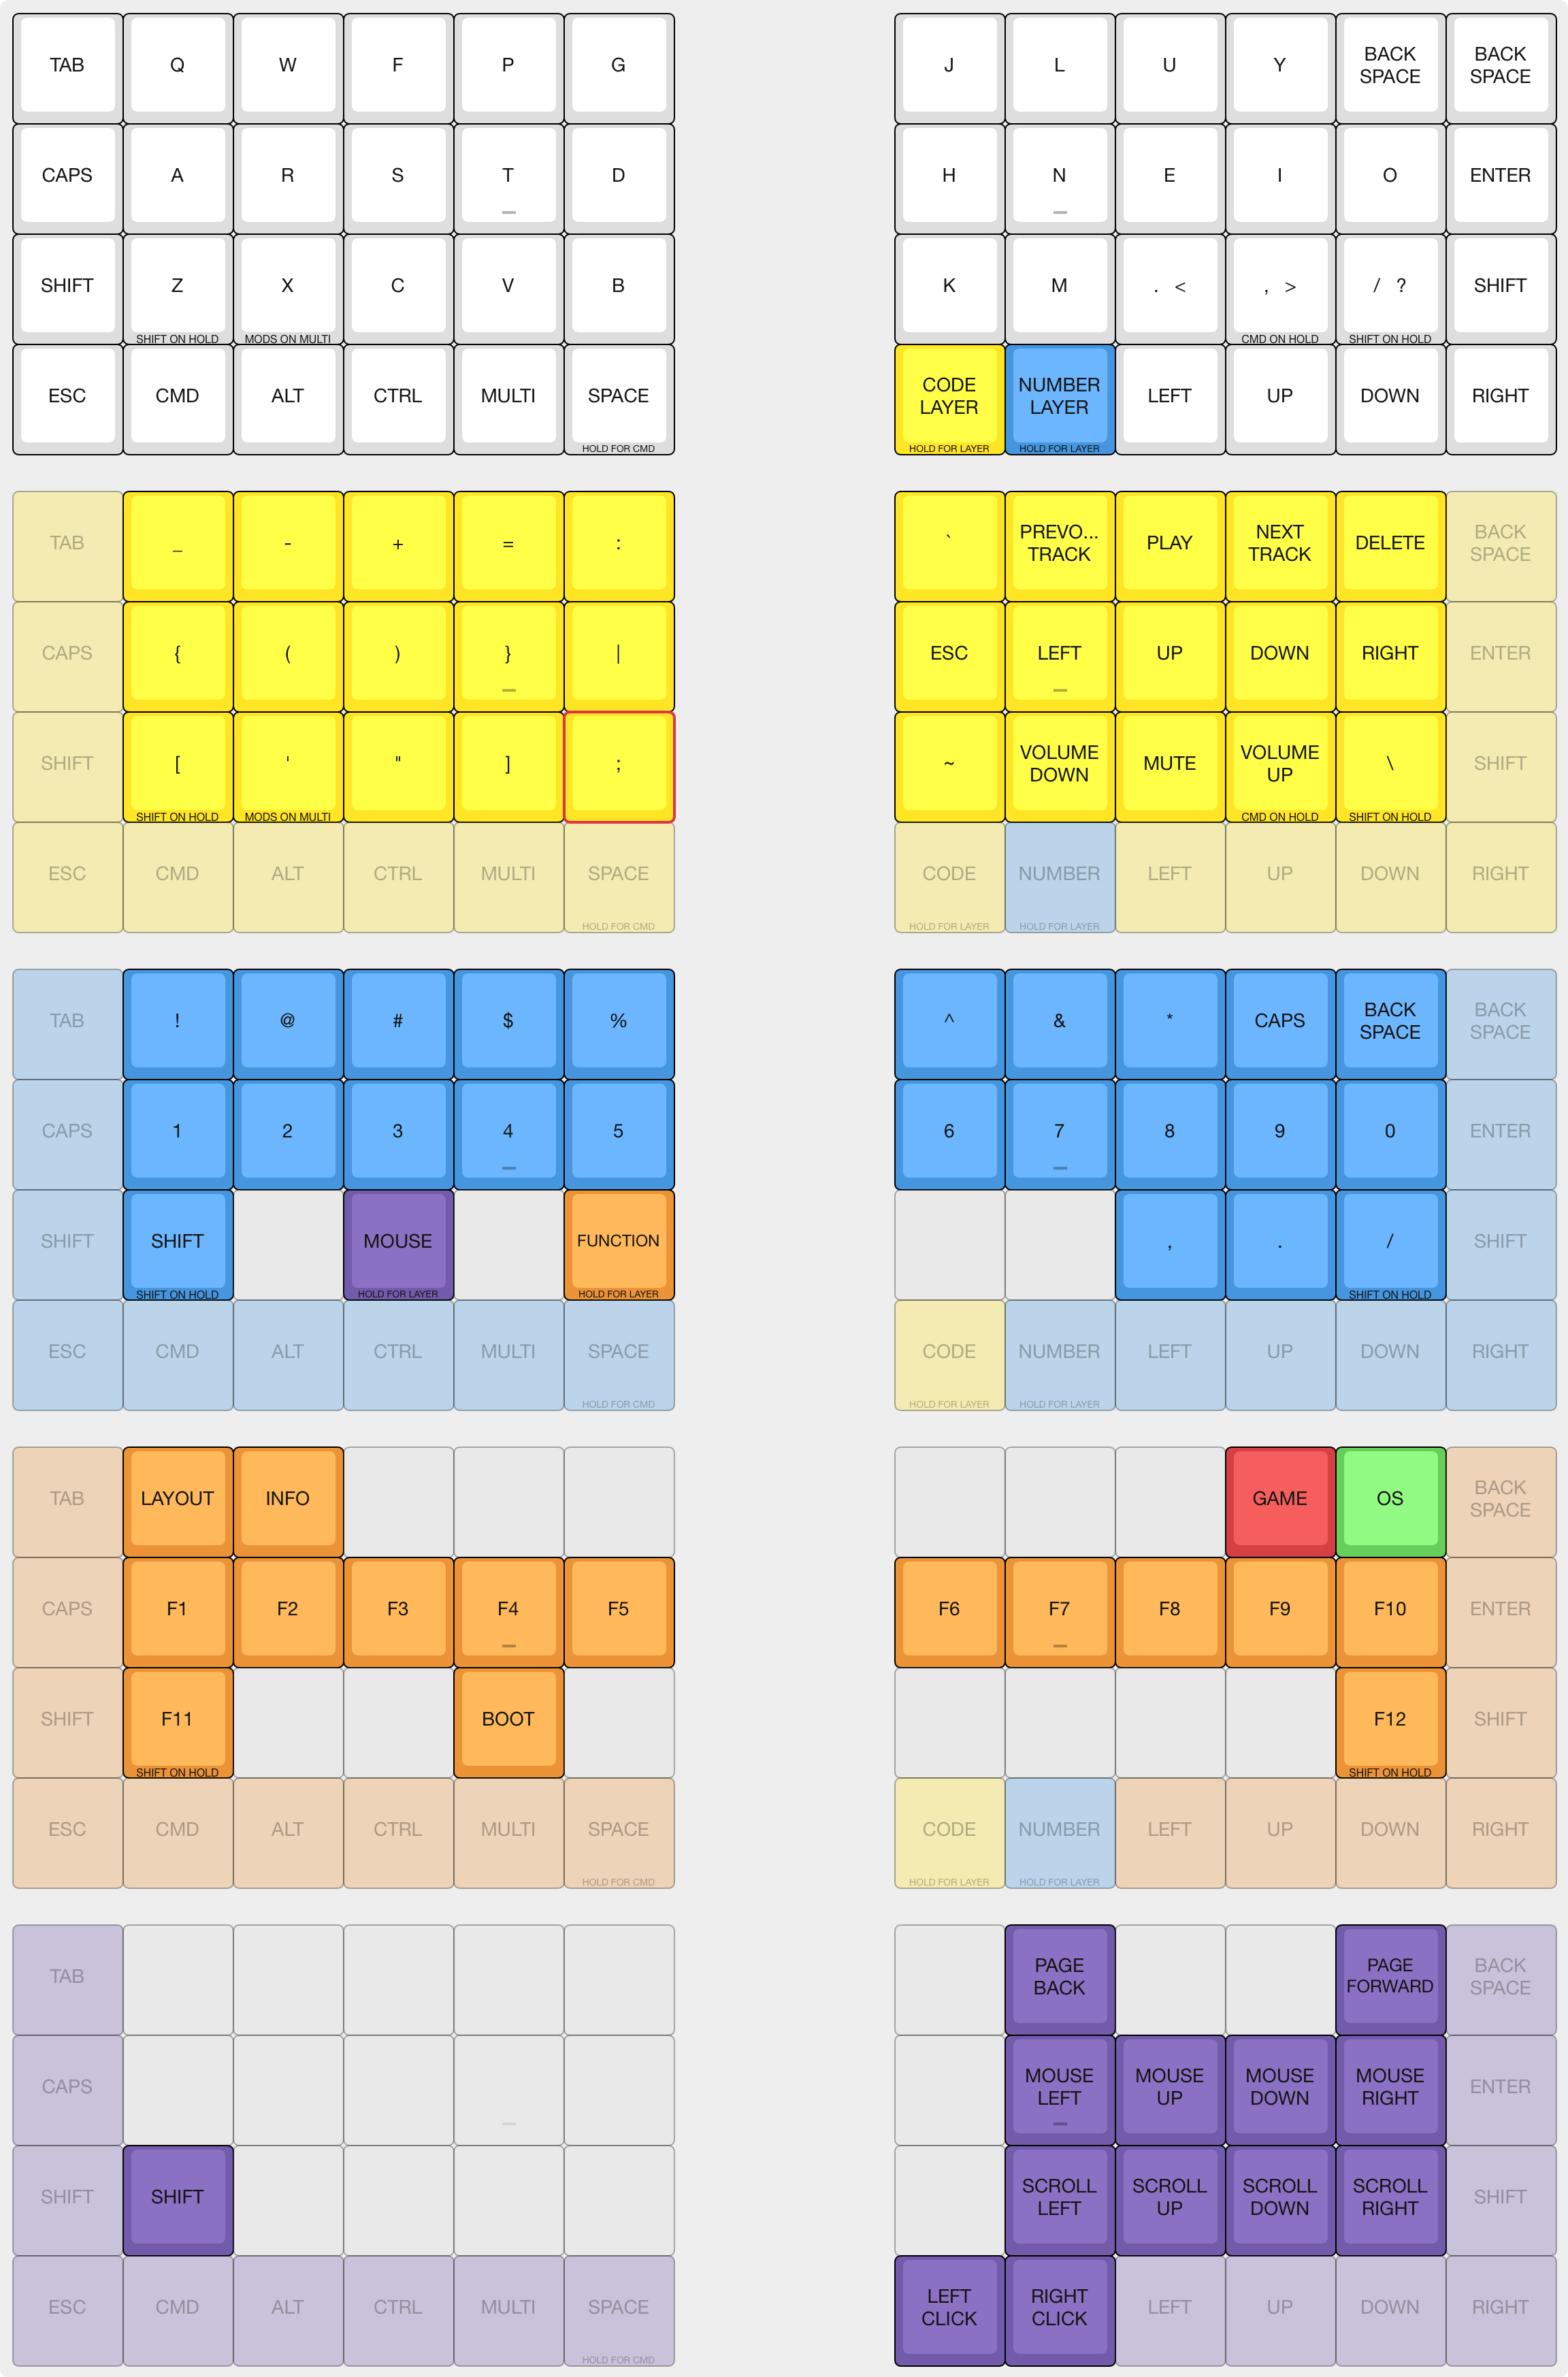
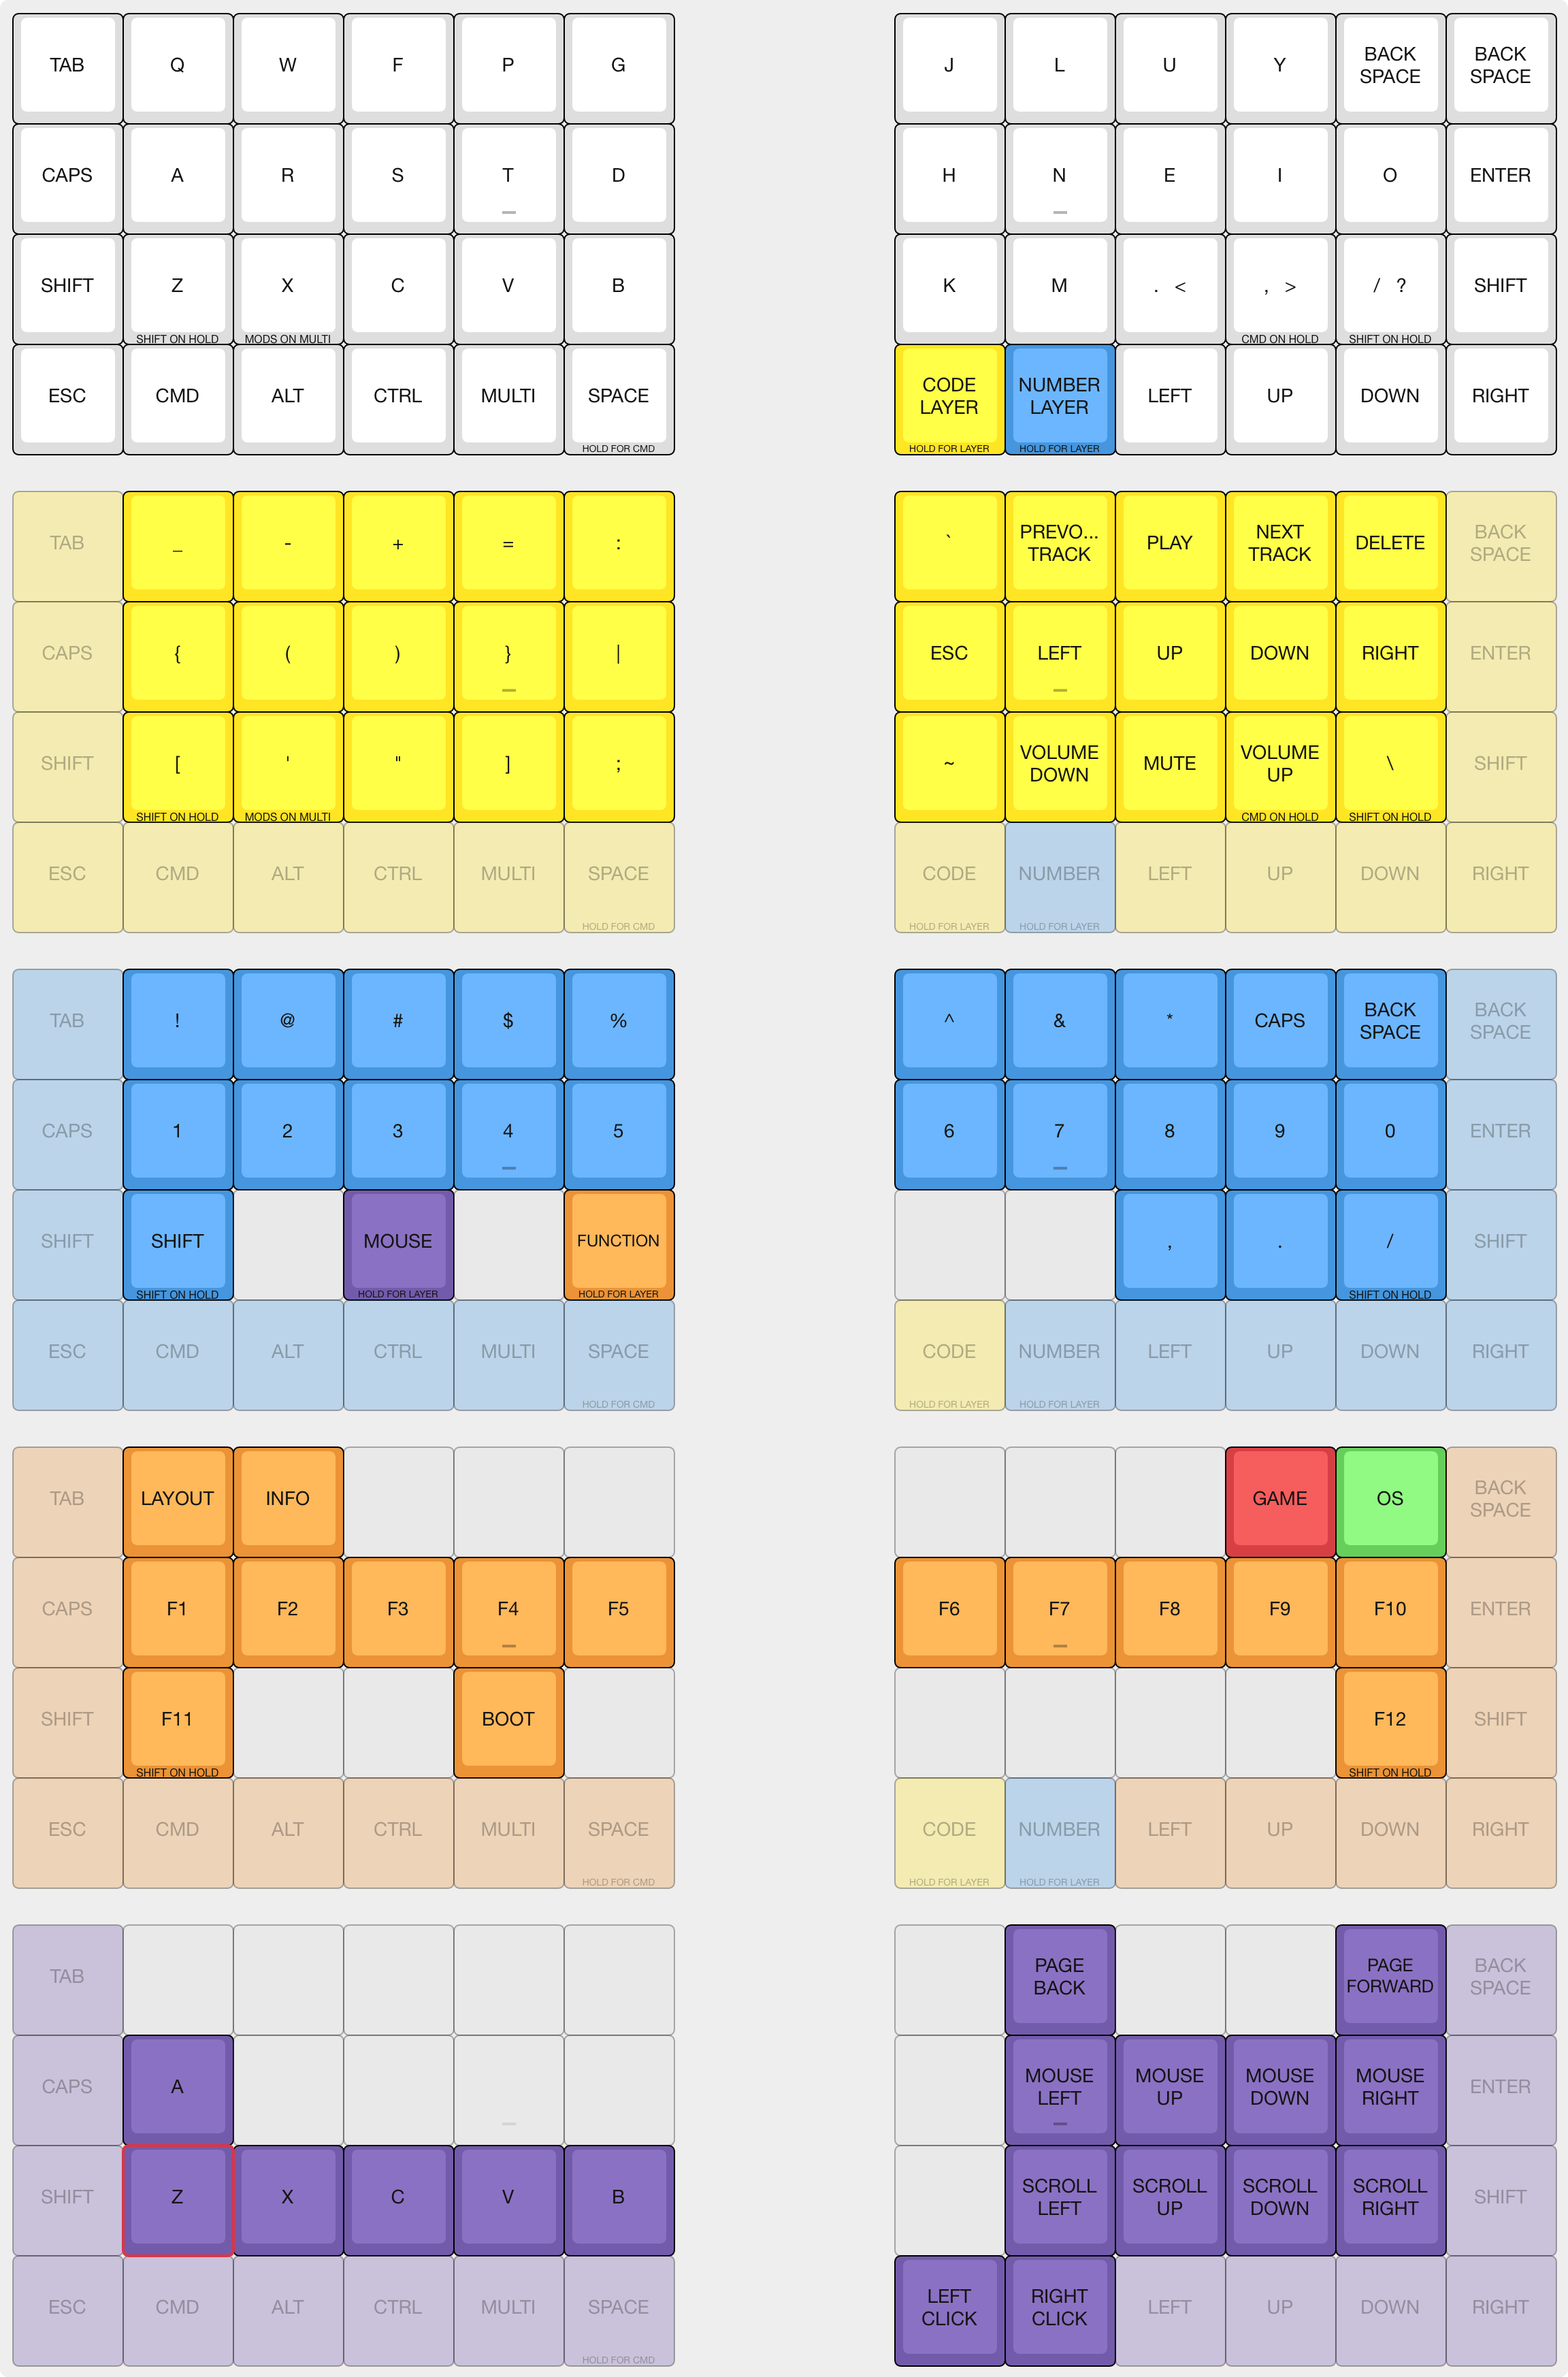
Update mouse layer to have zxcvb and a for copy past etc

Changed region(s): [[0.0625, 0.8428, 0.4375, 0.9676]]

diff --git a/Scotto48/PCB/QMK/keymaps/scotto/keymap.c b/Scotto48/PCB/QMK/keymaps/scotto/keymap.c
@@ -86,20 +86,20 @@ const uint16_t PROGMEM keymaps[][MATRIX_ROWS][MATRIX_COLS] = {
   KC_TRNS , KC_TRNS        , KC_TRNS    , KC_TRNS , KC_TRNS   , KC_TRNS ,         KC_TRNS , KC_TRNS , KC_TRNS , KC_TRNS     , KC_TRNS        , KC_TRNS
 ),
 
-//    ┌─────┬──────┬─────┬─────┬─────┬─────┐       ┌─────────┬────────────┬─────────┬─────────┬────────────┬─────┐
-//    │     │  no  │ no  │ no  │ no  │ no  │       │   no    │ RGUI(left) │   no    │   no    │ RGUI(rght) │     │
-//    ├─────┼──────┼─────┼─────┼─────┼─────┤       ├─────────┼────────────┼─────────┼─────────┼────────────┼─────┤
-//    │     │  no  │ no  │ no  │ no  │ no  │       │   no    │  MS_LEFT   │  MS_UP  │ MS_DOWN │  MS_RGHT   │     │
-//    ├─────┼──────┼─────┼─────┼─────┼─────┤       ├─────────┼────────────┼─────────┼─────────┼────────────┼─────┤
-//    │     │ rsft │ no  │ no  │ no  │ no  │       │   no    │  MS_WHLL   │ MS_WHLU │ MS_WHLD │  MS_WHLR   │     │
-//    ├─────┼──────┼─────┼─────┼─────┼─────┤       ├─────────┼────────────┼─────────┼─────────┼────────────┼─────┤
-//    │     │      │     │     │     │     │       │ MS_BTN1 │  MS_BTN2   │         │         │            │     │
-//    └─────┴──────┴─────┴─────┴─────┴─────┘       └─────────┴────────────┴─────────┴─────────┴────────────┴─────┘
+//    ┌─────┬───────────┬─────┬─────┬─────┬─────┐       ┌─────────┬────────────┬─────────┬─────────┬────────────┬─────┐
+//    │     │    no     │ no  │ no  │ no  │ no  │       │   no    │ RGUI(left) │   no    │   no    │ RGUI(rght) │     │
+//    ├─────┼───────────┼─────┼─────┼─────┼─────┤       ├─────────┼────────────┼─────────┼─────────┼────────────┼─────┤
+//    │     │     a     │ no  │ no  │ no  │ no  │       │   no    │  MS_LEFT   │  MS_UP  │ MS_DOWN │  MS_RGHT   │     │
+//    ├─────┼───────────┼─────┼─────┼─────┼─────┤       ├─────────┼────────────┼─────────┼─────────┼────────────┼─────┤
+//    │     │ RSFT_T(z) │  x  │  c  │  v  │  b  │       │   no    │  MS_WHLL   │ MS_WHLU │ MS_WHLD │  MS_WHLR   │     │
+//    ├─────┼───────────┼─────┼─────┼─────┼─────┤       ├─────────┼────────────┼─────────┼─────────┼────────────┼─────┤
+//    │     │           │     │     │     │     │       │ MS_BTN1 │  MS_BTN2   │         │         │            │     │
+//    └─────┴───────────┴─────┴─────┴─────┴─────┘       └─────────┴────────────┴─────────┴─────────┴────────────┴─────┘
 [4] = LAYOUT_ortho_4x12(
-  KC_TRNS , KC_NO   , KC_NO   , KC_NO   , KC_NO   , KC_NO   ,         KC_NO   , RGUI(KC_LEFT) , KC_NO   , KC_NO   , RGUI(KC_RIGHT) , KC_TRNS,
-  KC_TRNS , KC_NO   , KC_NO   , KC_NO   , KC_NO   , KC_NO   ,         KC_NO   , MS_LEFT       , MS_UP   , MS_DOWN , MS_RGHT        , KC_TRNS,
-  KC_TRNS , KC_RSFT , KC_NO   , KC_NO   , KC_NO   , KC_NO   ,         KC_NO   , MS_WHLL       , MS_WHLU , MS_WHLD , MS_WHLR        , KC_TRNS,
-  KC_TRNS , KC_TRNS , KC_TRNS , KC_TRNS , KC_TRNS , KC_TRNS ,         MS_BTN1 , MS_BTN2       , KC_TRNS , KC_TRNS , KC_TRNS        , KC_TRNS
+  KC_TRNS , KC_NO        , KC_NO   , KC_NO   , KC_NO   , KC_NO   ,         KC_NO   , RGUI(KC_LEFT) , KC_NO   , KC_NO   , RGUI(KC_RIGHT) , KC_TRNS,
+  KC_TRNS , KC_A         , KC_NO   , KC_NO   , KC_NO   , KC_NO   ,         KC_NO   , MS_LEFT       , MS_UP   , MS_DOWN , MS_RGHT        , KC_TRNS,
+  KC_TRNS , RSFT_T(KC_Z) , KC_X    , KC_C    , KC_V    , KC_B    ,         KC_NO   , MS_WHLL       , MS_WHLU , MS_WHLD , MS_WHLR        , KC_TRNS,
+  KC_TRNS , KC_TRNS      , KC_TRNS , KC_TRNS , KC_TRNS , KC_TRNS ,         MS_BTN1 , MS_BTN2       , KC_TRNS , KC_TRNS , KC_TRNS        , KC_TRNS
 )
 };
 // clang-format on

diff --git a/Scotto48/PCB/QMK/keymaps/vial/keymap.c b/Scotto48/PCB/QMK/keymaps/vial/keymap.c
@@ -67,20 +67,20 @@ const uint16_t PROGMEM keymaps[][MATRIX_ROWS][MATRIX_COLS] = {
   KC_TRNS , KC_TRNS        , KC_TRNS , KC_TRNS , KC_TRNS , KC_TRNS ,         KC_TRNS , KC_TRNS , KC_TRNS , KC_TRNS , KC_TRNS        , KC_TRNS
 ),
 
-//    ┌─────┬──────┬─────┬─────┬─────┬─────┐       ┌─────────┬────────────┬─────────┬─────────┬────────────┬─────┐
-//    │     │  no  │ no  │ no  │ no  │ no  │       │   no    │ RGUI(left) │   no    │   no    │ RGUI(rght) │     │
-//    ├─────┼──────┼─────┼─────┼─────┼─────┤       ├─────────┼────────────┼─────────┼─────────┼────────────┼─────┤
-//    │     │  no  │ no  │ no  │ no  │ no  │       │   no    │  MS_LEFT   │  MS_UP  │ MS_DOWN │  MS_RGHT   │     │
-//    ├─────┼──────┼─────┼─────┼─────┼─────┤       ├─────────┼────────────┼─────────┼─────────┼────────────┼─────┤
-//    │     │ rsft │ no  │ no  │ no  │ no  │       │   no    │  MS_WHLL   │ MS_WHLU │ MS_WHLD │  MS_WHLR   │     │
-//    ├─────┼──────┼─────┼─────┼─────┼─────┤       ├─────────┼────────────┼─────────┼─────────┼────────────┼─────┤
-//    │     │      │     │     │     │     │       │ MS_BTN1 │  MS_BTN2   │         │         │            │     │
-//    └─────┴──────┴─────┴─────┴─────┴─────┘       └─────────┴────────────┴─────────┴─────────┴────────────┴─────┘
+//    ┌─────┬───────────┬─────┬─────┬─────┬─────┐       ┌─────────┬────────────┬─────────┬─────────┬────────────┬─────┐
+//    │     │    no     │ no  │ no  │ no  │ no  │       │   no    │ RGUI(left) │   no    │   no    │ RGUI(rght) │     │
+//    ├─────┼───────────┼─────┼─────┼─────┼─────┤       ├─────────┼────────────┼─────────┼─────────┼────────────┼─────┤
+//    │     │     a     │ no  │ no  │ no  │ no  │       │   no    │  MS_LEFT   │  MS_UP  │ MS_DOWN │  MS_RGHT   │     │
+//    ├─────┼───────────┼─────┼─────┼─────┼─────┤       ├─────────┼────────────┼─────────┼─────────┼────────────┼─────┤
+//    │     │ RSFT_T(z) │  x  │  c  │  v  │  b  │       │   no    │  MS_WHLL   │ MS_WHLU │ MS_WHLD │  MS_WHLR   │     │
+//    ├─────┼───────────┼─────┼─────┼─────┼─────┤       ├─────────┼────────────┼─────────┼─────────┼────────────┼─────┤
+//    │     │           │     │     │     │     │       │ MS_BTN1 │  MS_BTN2   │         │         │            │     │
+//    └─────┴───────────┴─────┴─────┴─────┴─────┘       └─────────┴────────────┴─────────┴─────────┴────────────┴─────┘
 [4] = LAYOUT_ortho_4x12(
-  KC_TRNS , KC_NO   , KC_NO   , KC_NO   , KC_NO   , KC_NO   ,         KC_NO   , RGUI(KC_LEFT) , KC_NO   , KC_NO   , RGUI(KC_RIGHT) , KC_TRNS,
-  KC_TRNS , KC_NO   , KC_NO   , KC_NO   , KC_NO   , KC_NO   ,         KC_NO   , MS_LEFT       , MS_UP   , MS_DOWN , MS_RGHT        , KC_TRNS,
-  KC_TRNS , KC_RSFT , KC_NO   , KC_NO   , KC_NO   , KC_NO   ,         KC_NO   , MS_WHLL       , MS_WHLU , MS_WHLD , MS_WHLR        , KC_TRNS,
-  KC_TRNS , KC_TRNS , KC_TRNS , KC_TRNS , KC_TRNS , KC_TRNS ,         MS_BTN1 , MS_BTN2       , KC_TRNS , KC_TRNS , KC_TRNS        , KC_TRNS
+  KC_TRNS , KC_NO        , KC_NO   , KC_NO   , KC_NO   , KC_NO   ,         KC_NO   , RGUI(KC_LEFT) , KC_NO   , KC_NO   , RGUI(KC_RIGHT) , KC_TRNS,
+  KC_TRNS , KC_A         , KC_NO   , KC_NO   , KC_NO   , KC_NO   ,         KC_NO   , MS_LEFT       , MS_UP   , MS_DOWN , MS_RGHT        , KC_TRNS,
+  KC_TRNS , RSFT_T(KC_Z) , KC_X    , KC_C    , KC_V    , KC_B    ,         KC_NO   , MS_WHLL       , MS_WHLU , MS_WHLD , MS_WHLR        , KC_TRNS,
+  KC_TRNS , KC_TRNS      , KC_TRNS , KC_TRNS , KC_TRNS , KC_TRNS ,         MS_BTN1 , MS_BTN2       , KC_TRNS , KC_TRNS , KC_TRNS        , KC_TRNS
 )
 };
 // clang-format on